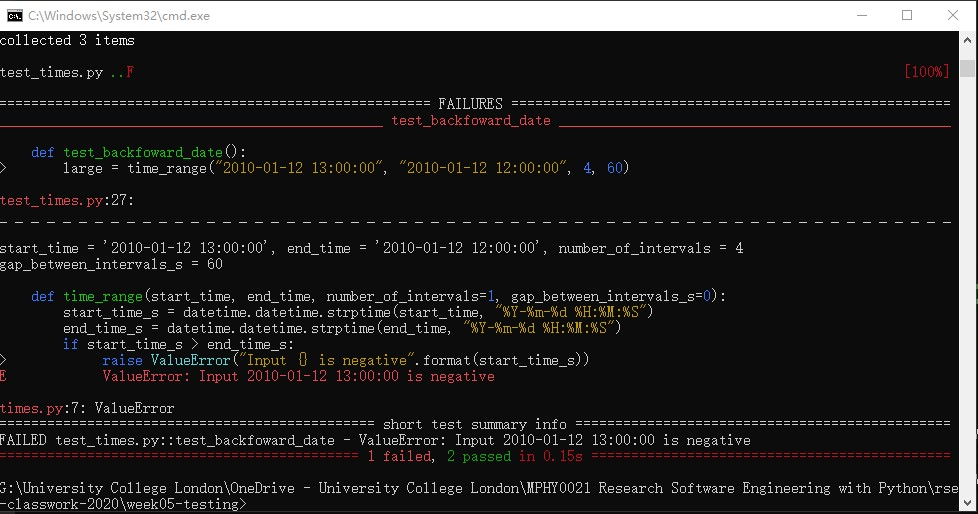
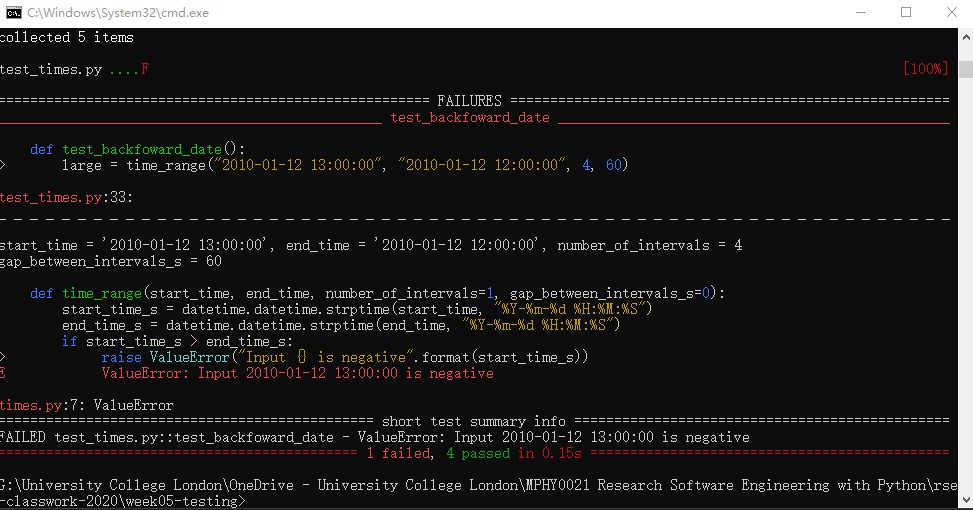
Answers UCL-RITS/rsd-classwork-2020#86

diff --git a/week05-testing/test_times.py b/week05-testing/test_times.py
@@ -15,16 +15,22 @@ def test_no_overlap():
     expected = []
     assert result == expected
 
+def test_contain_intervals():
+    large = time_range("2010-01-12 10:00:00", "2010-01-12 13:00:00", 2, 0)
+    short = time_range("2010-01-12 11:00:00", "2010-01-12 12:00:00", 2, 0)
+    result = compute_overlap_time(large, short)
+    expected = [('2010-01-12 11:00:00', '2010-01-12 11:30:00'), ('2010-01-12 11:30:00', '2010-01-12 12:00:00')]
+    assert result == expected
 
-# def test_contain_intervals():
-#     large = time_range("2010-01-12 10:00:00", "2010-01-12 12:00:00", 2, 59)
-#     short = time_range("2010-01-12 10:30:00", "2010-01-12 10:45:00", 2, 60)
-#     result = compute_overlap_time(large, short)
-#     expected = ''
-#     assert result == expected
+def test_touching_times():
+    large = time_range("2010-01-12 10:00:00", "2010-01-12 13:00:00", 2, 0)
+    short = time_range("2010-01-12 13:00:00", "2010-01-12 14:00:00", 2, 0)
+    result = compute_overlap_time(large, short)
+    expected = []
+    assert result == expected
 
 def test_backfoward_date():
     large = time_range("2010-01-12 13:00:00", "2010-01-12 12:00:00", 4, 60)
     short = time_range("2010-01-12 14:30:00", "2010-01-12 12:00:00", 2, 60)
     with raises(ValueError):
-        print(compute_overlap_time(large, short))
+        compute_overlap_time(large, short)

diff --git a/week05-testing/times.py b/week05-testing/times.py
@@ -21,6 +21,7 @@ def compute_overlap_time(range1, range2):
             if low < high:
                 overlap_time.append((low, high))
     return overlap_time
+    
 
 # if __name__ == "__main__":
 #     large = time_range("2010-01-12 10:00:00", "2010-01-12 12:00:00")
